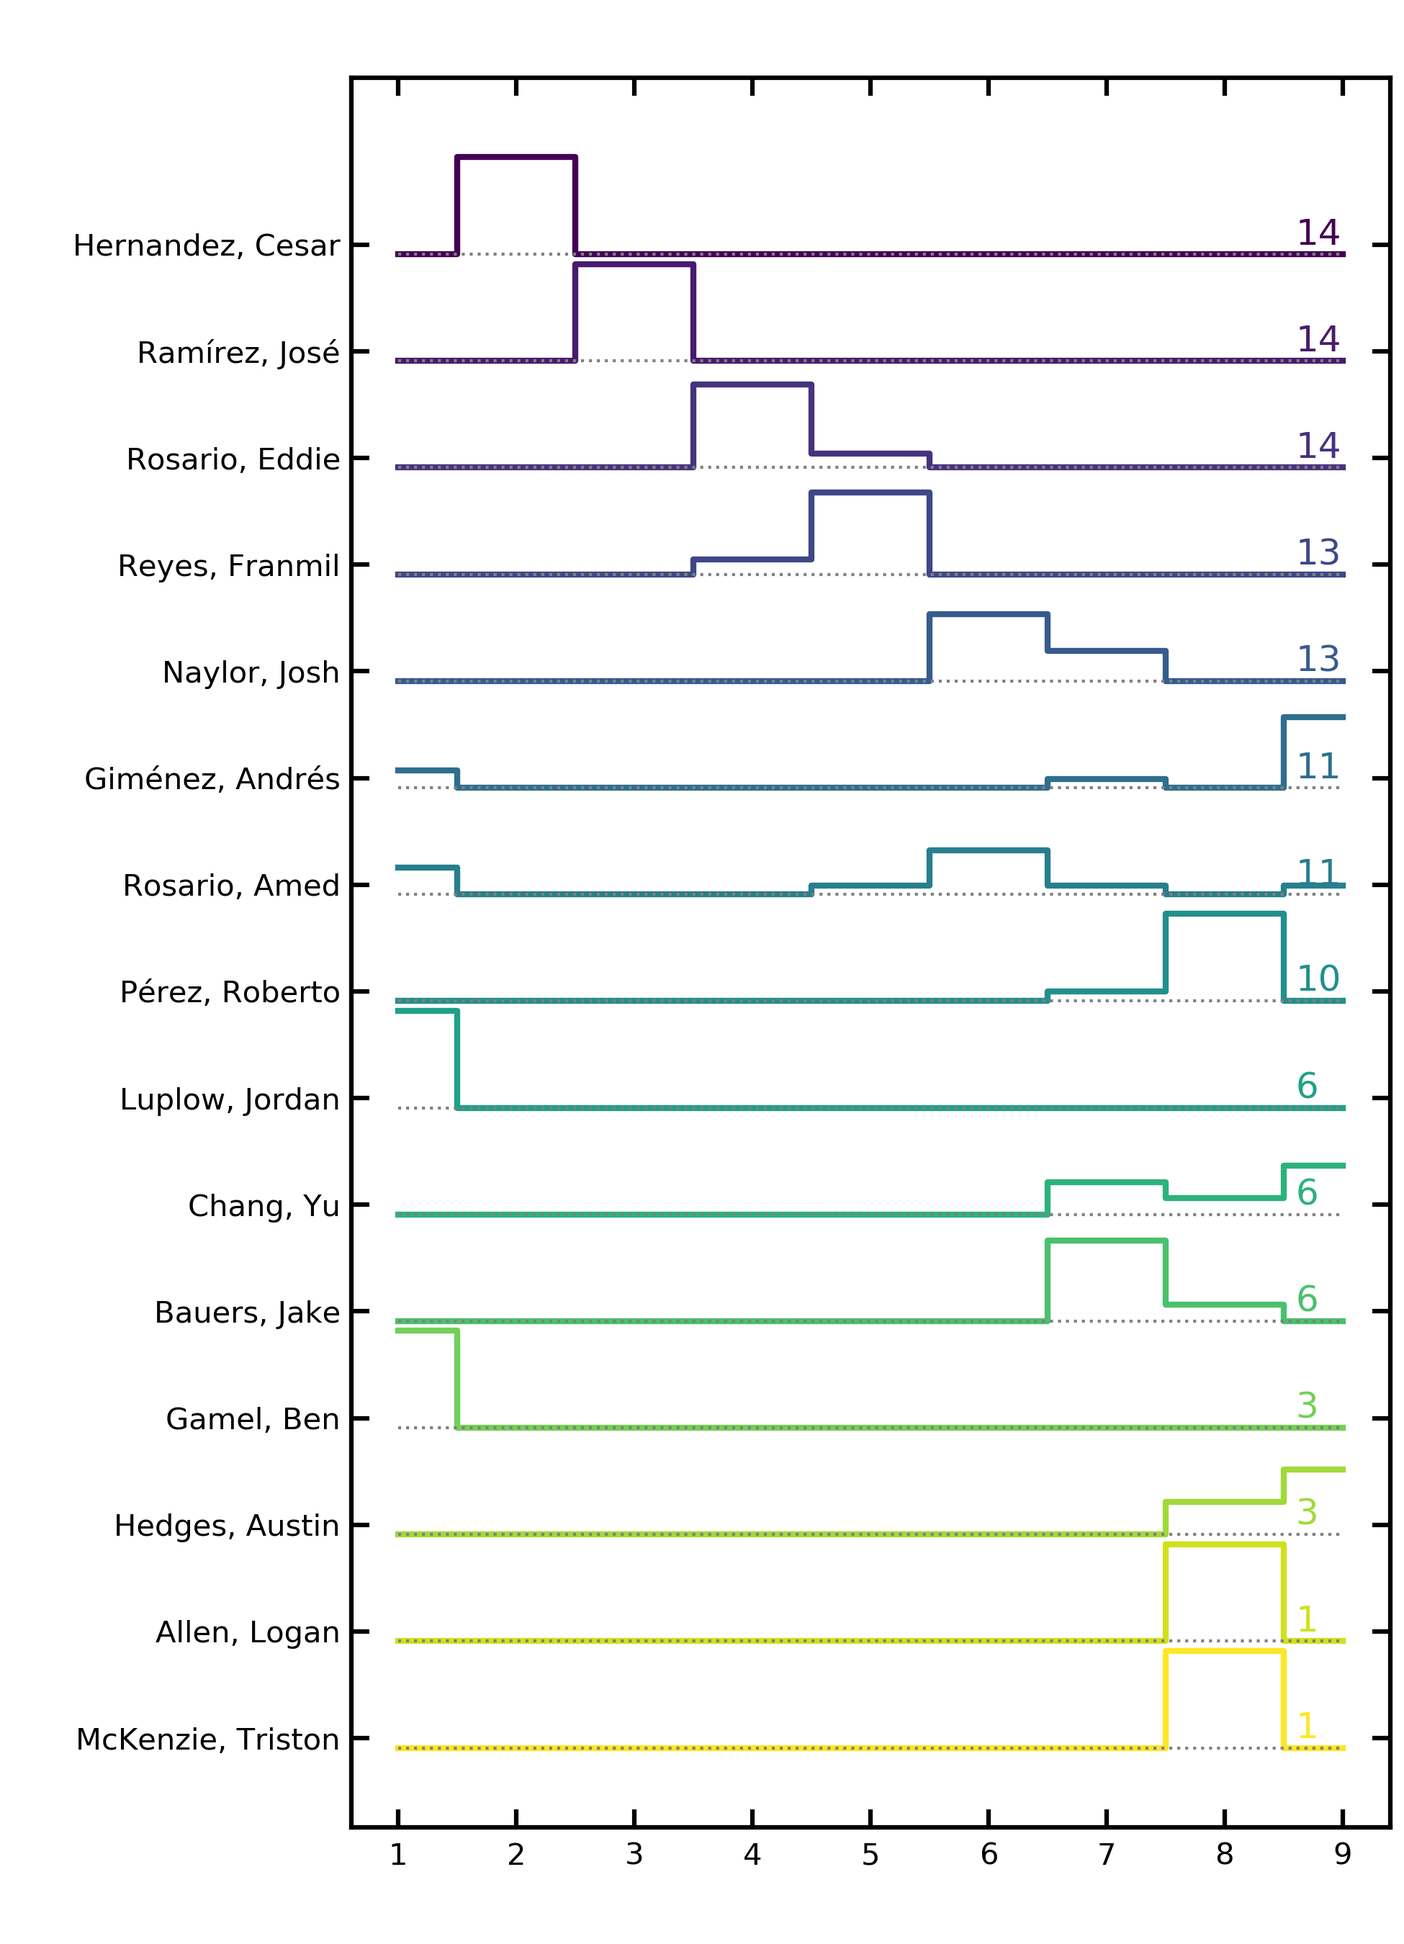
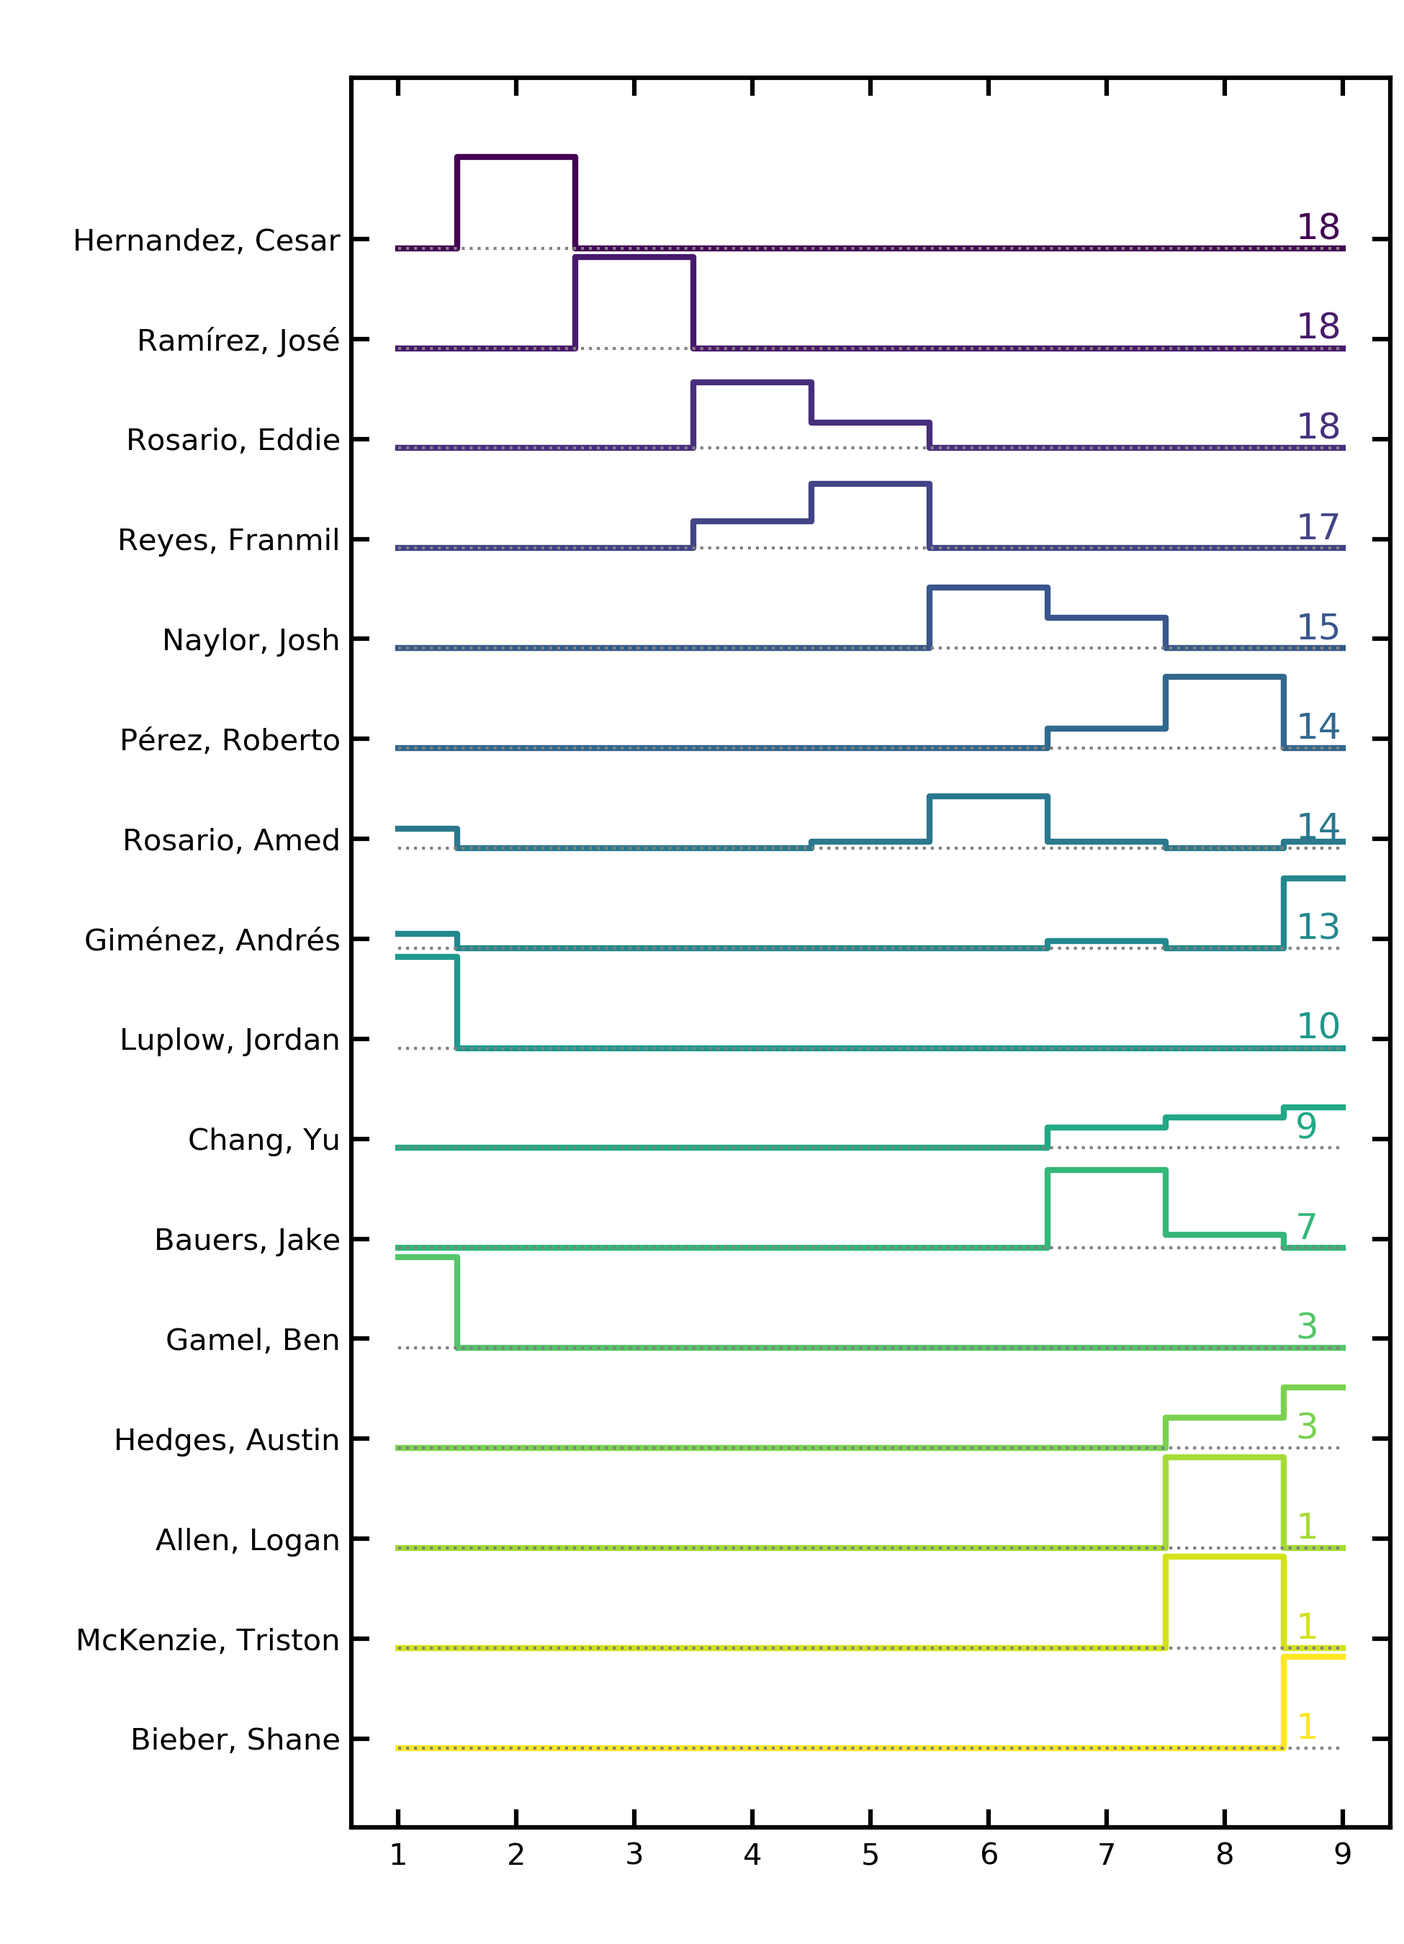
batting order update

diff --git a/Lineups/lineup2021.html b/Lineups/lineup2021.html
@@ -12,36 +12,36 @@
   <p>For each team, what is the "typical" 2021 lineup?</p>
 <table id="customers">
 <tr><th>Team</th><th>1st</th><th>2nd</th><th>3rd</th><th>4th</th><th>5th</th><th>6th</th><th>7th</th><th>8th</th><th>9th</th><th>Similarity</th><th>First Appeared</th></tr>
-<tr><td><a href="figures/2021LAAorder.png">LAA</a></td><td>Fletcher, David</td><td>Ohtani, Shohei</td><td>Trout, Mike</td><td>Rendon, Anthony</td><td>Walsh, Jared</td><td>Upton, Justin</td><td>Iglesias, José</td><td>Suzuki, Kurt</td><td>Fowler, Dexter</td><td>4.62</td><td>3</td></tr>
-<tr><td><a href="figures/2021HOUorder.png">HOU</a></td><td>Altuve, Jose</td><td>Brantley, Michael</td><td>Bregman, Alex</td><td>Alvarez, Yordan</td><td>Correa, Carlos</td><td>Gurriel, Yuli</td><td>Tucker, Kyle</td><td>Straw, Myles</td><td>Maldonado, Martín</td><td>3.54</td><td>10</td></tr>
-<tr><td><a href="figures/2021OAKorder.png">OAK</a></td><td>Canha, Mark</td><td>Laureano, Ramón</td><td>Lowrie, Jed</td><td>Olson, Matt</td><td>Chapman, Matt</td><td>Piscotty, Stephen</td><td>Brown, Seth</td><td>Andrus, Elvis</td><td>Garcia, Aramis</td><td>2.8</td><td>9</td></tr>
-<tr><td><a href="figures/2021TORorder.png">TOR</a></td><td>Semien, Marcus</td><td>Biggio, Cavan</td><td>Bichette, Bo</td><td>Hernández, Teoscar</td><td>Guerrero Jr., Vladimir</td><td>Gurriel Jr., Lourdes</td><td>Tellez, Rowdy</td><td>Grichuk, Randal</td><td>Jansen, Danny</td><td>3.67</td><td>1</td></tr>
-<tr><td><a href="figures/2021ATLorder.png">ATL</a></td><td>Acuña Jr., Ronald</td><td>Albies, Ozzie</td><td>Freeman, Freddie</td><td>Ozuna, Marcell</td><td>d'Arnaud, Travis</td><td>Swanson, Dansby</td><td>Riley, Austin</td><td>Pache, Cristian</td><td>Anderson, Ian</td><td>3.27</td><td>3</td></tr>
-<tr><td><a href="figures/2021MILorder.png">MIL</a></td><td>Wong, Kolten</td><td>Hiura, Keston</td><td>Yelich, Christian</td><td>García, Avisaíl</td><td>Bradley Jr., Jackie</td><td>Urías, Luis</td><td>Narváez, Omar</td><td>Arcia, Orlando</td><td>Anderson, Brett</td><td>2.43</td><td>4</td></tr>
-<tr><td><a href="figures/2021STLorder.png">STL</a></td><td>Edman, Tommy</td><td>Goldschmidt, Paul</td><td>Arenado, Nolan</td><td>DeJong, Paul</td><td>O'Neill, Tyler</td><td>Molina, Yadier</td><td>Carlson, Dylan</td><td>Williams, Justin</td><td>Wainwright, Adam</td><td>4.21</td><td>2</td></tr>
-<tr><td><a href="figures/2021CHCorder.png">CHC</a></td><td>Happ, Ian</td><td>Contreras, Willson</td><td>Rizzo, Anthony</td><td>Bryant, Kris</td><td>Pederson, Joc</td><td>Báez, Javier</td><td>Heyward, Jason</td><td>Bote, David</td><td>Davies, Zach</td><td>5.5</td><td>8</td></tr>
-<tr><td><a href="figures/2021ARIorder.png">ARI</a></td><td>Locastro, Tim</td><td>Calhoun, Kole</td><td>Walker, Christian</td><td>Peralta, David</td><td>Cabrera, Asdrúbal</td><td>Escobar, Eduardo</td><td>Ahmed, Nick</td><td>Vogt, Stephen</td><td>Smith, Riley</td><td>3.0</td><td>9</td></tr>
-<tr><td><a href="figures/2021LADorder.png">LAD</a></td><td>Betts, Mookie</td><td>Seager, Corey</td><td>Turner, Justin</td><td>Bellinger, Cody</td><td>Muncy, Max</td><td>Taylor, Chris</td><td>Lux, Gavin</td><td>Barnes, Austin</td><td>Kershaw, Clayton</td><td>2.8</td><td>1</td></tr>
-<tr><td><a href="figures/2021SForder.png">SF</a></td><td>Slater, Austin</td><td>Yastrzemski, Mike</td><td>Solano, Donovan</td><td>Longoria, Evan</td><td>Ruf, Darin</td><td>Flores, Wilmer</td><td>Posey, Buster</td><td>Crawford, Brandon</td><td>Dubón, Mauricio</td><td>2.32</td><td>2</td></tr>
-<tr><td><a href="figures/2021CLEorder.png">CLE</a></td><td>Luplow, Jordan</td><td>Hernandez, Cesar</td><td>Ramírez, José</td><td>Rosario, Eddie</td><td>Reyes, Franmil</td><td>Naylor, Josh</td><td>Chang, Yu</td><td>Pérez, Roberto</td><td>Giménez, Andrés</td><td>4.89</td><td>1</td></tr>
-<tr><td><a href="figures/2021SEAorder.png">SEA</a></td><td>Haniger, Mitch</td><td>France, Ty</td><td>Seager, Kyle</td><td>White, Evan</td><td>Moore, Dylan</td><td>Murphy, Tom</td><td>Fraley, Jake</td><td>Haggerty, Sam</td><td>Crawford, J.P.</td><td>4.21</td><td>4</td></tr>
-<tr><td><a href="figures/2021MIAorder.png">MIA</a></td><td>Dickerson, Corey</td><td>Marte, Starling</td><td>Aguilar, Jesús</td><td>Cooper, Garrett</td><td>Anderson, Brian</td><td>Chisholm Jr., Jazz</td><td>Rojas, Miguel</td><td>Wallach, Chad</td><td>Rogers, Trevor</td><td>3.93</td><td>8</td></tr>
-<tr><td><a href="figures/2021NYMorder.png">NYM</a></td><td>Nimmo, Brandon</td><td>Lindor, Francisco</td><td>Conforto, Michael</td><td>Alonso, Pete</td><td>Smith, Dominic</td><td>Villar, Jonathan</td><td>McCann, James</td><td>Guillorme, Luis</td><td>Peterson, David</td><td>3.9</td><td>3</td></tr>
-<tr><td><a href="figures/2021WSHorder.png">WSH</a></td><td>Robles, Victor</td><td>Turner, Trea</td><td>Soto, Juan</td><td>Zimmerman, Ryan</td><td>Castro, Starlin</td><td>Pérez, Hernán</td><td>Stevenson, Andrew</td><td>Lucroy, Jonathan</td><td>Scherzer, Max</td><td>2.54</td><td>1</td></tr>
-<tr><td><a href="figures/2021BALorder.png">BAL</a></td><td>Mullins, Cedric</td><td>Mancini, Trey</td><td>Santander, Anthony</td><td>Mountcastle, Ryan</td><td>Stewart, DJ</td><td>Franco, Maikel</td><td>Ruiz, Rio</td><td>Galvis, Freddy</td><td>Sisco, Chance</td><td>3.33</td><td>8</td></tr>
-<tr><td><a href="figures/2021SDorder.png">SD</a></td><td>Grisham, Trent</td><td>Profar, Jurickson</td><td>Machado, Manny</td><td>Hosmer, Eric</td><td>Myers, Wil</td><td>Cronenworth, Jake</td><td>Pham, Tommy</td><td>Caratini, Victor</td><td>Kim, Ha-Seong</td><td>2.53</td><td>10</td></tr>
-<tr><td><a href="figures/2021PHIorder.png">PHI</a></td><td>McCutchen, Andrew</td><td>Hoskins, Rhys</td><td>Harper, Bryce</td><td>Realmuto, J.T.</td><td>Bohm, Alec</td><td>Gregorius, Didi</td><td>Segura, Jean</td><td>Haseley, Adam</td><td>Nola, Aaron</td><td>4.64</td><td>1</td></tr>
-<tr><td><a href="figures/2021PITorder.png">PIT</a></td><td>Frazier, Adam</td><td>Evans, Phillip</td><td>Reynolds, Bryan</td><td>Moran, Colin</td><td>González, Erik</td><td>Polanco, Gregory</td><td>Stallings, Jacob</td><td>Fowler, Dustin</td><td>Brubaker, JT</td><td>4.07</td><td>4</td></tr>
-<tr><td><a href="figures/2021TEXorder.png">TEX</a></td><td>Kiner-Falefa, Isiah</td><td>Dahl, David</td><td>Gallo, Joey</td><td>Solak, Nick</td><td>Lowe, Nate</td><td>Trevino, Jose</td><td>Holt, Brock</td><td>White, Eli</td><td>Culberson, Charlie</td><td>3.4</td><td>4</td></tr>
-<tr><td><a href="figures/2021TBorder.png">TB</a></td><td>Tsutsugo, Yoshi</td><td>Meadows, Austin</td><td>Arozarena, Randy</td><td>Lowe, Brandon</td><td>Díaz, Yandy</td><td>Wendle, Joey</td><td>Adames, Willy</td><td>Phillips, Brett</td><td>Zunino, Mike</td><td>2.33</td><td>7</td></tr>
-<tr><td><a href="figures/2021BOSorder.png">BOS</a></td><td>Hernández, Enrique</td><td>Verdugo, Alex</td><td>Martinez, J.D.</td><td>Bogaerts, Xander</td><td>Devers, Rafael</td><td>Vázquez, Christian</td><td>Gonzalez, Marwin</td><td>Dalbec, Bobby</td><td>Cordero, Franchy</td><td>4.29</td><td>9</td></tr>
-<tr><td><a href="figures/2021CINorder.png">CIN</a></td><td>Winker, Jesse</td><td>Castellanos, Nick</td><td>Votto, Joey</td><td>Suárez, Eugenio</td><td>Moustakas, Mike</td><td>Senzel, Nick</td><td>India, Jonathan</td><td>Barnhart, Tucker</td><td>Castillo, Luis</td><td>5.31</td><td>1</td></tr>
-<tr><td><a href="figures/2021COLorder.png">COL</a></td><td>Hampson, Garrett</td><td>McMahon, Ryan</td><td>Story, Trevor</td><td>Blackmon, Charlie</td><td>Cron, C.J.</td><td>Tapia, Raimel</td><td>Fuentes, Josh</td><td>Nuñez, Dom</td><td>Gomber, Austin</td><td>3.6</td><td>8</td></tr>
-<tr><td><a href="figures/2021KCorder.png">KC</a></td><td>Merrifield, Whit</td><td>Benintendi, Andrew</td><td>Perez, Salvador</td><td>Santana, Carlos</td><td>Soler, Jorge</td><td>Taylor, Michael A.</td><td>Isbel, Kyle</td><td>Alberto, Hanser</td><td>Lopez, Nicky</td><td>5.31</td><td>8</td></tr>
-<tr><td><a href="figures/2021DETorder.png">DET</a></td><td>Grossman, Robbie</td><td>Candelario, Jeimer</td><td>Castro, Willi</td><td>Cabrera, Miguel</td><td>Schoop, Jonathan</td><td>Mazara, Nomar</td><td>Ramos, Wilson</td><td>Goodrum, Niko</td><td>Jones, JaCoby</td><td>2.2</td><td>2</td></tr>
-<tr><td><a href="figures/2021MINorder.png">MIN</a></td><td>Arraez, Luis</td><td>Polanco, Jorge</td><td>Cruz, Nelson</td><td>Kepler, Max</td><td>Astudillo, Willians</td><td>Sanó, Miguel</td><td>Cave, Jake</td><td>Jeffers, Ryan</td><td>Riddle, JT</td><td>2.07</td><td>13</td></tr>
-<tr><td><a href="figures/2021CWSorder.png">CWS</a></td><td>Anderson, Tim</td><td>Eaton, Adam</td><td>Abreu, José</td><td>Moncada, Yoán</td><td>Mercedes, Yermín</td><td>Grandal, Yasmani</td><td>Robert, Luis</td><td>Vaughn, Andrew</td><td>Madrigal, Nick</td><td>3.36</td><td>13</td></tr>
-<tr><td><a href="figures/2021NYYorder.png">NYY</a></td><td>LeMahieu, DJ</td><td>Judge, Aaron</td><td>Hicks, Aaron</td><td>Stanton, Giancarlo</td><td>Torres, Gleyber</td><td>Bruce, Jay</td><td>Sánchez, Gary</td><td>Urshela, Gio</td><td>Frazier, Clint</td><td>3.29</td><td>2</td></tr>
+<tr><td><a href="figures/2021LAAorder.png">LAA</a></td><td>Fletcher, David</td><td>Ohtani, Shohei</td><td>Trout, Mike</td><td>Rendon, Anthony</td><td>Walsh, Jared</td><td>Upton, Justin</td><td>Iglesias, José</td><td>Suzuki, Kurt</td><td>Fowler, Dexter</td><td>4.36</td><td>3</td></tr>
+<tr><td><a href="figures/2021HOUorder.png">HOU</a></td><td>Altuve, Jose</td><td>Brantley, Michael</td><td>Bregman, Alex</td><td>Alvarez, Yordan</td><td>Correa, Carlos</td><td>Gurriel, Yuli</td><td>Tucker, Kyle</td><td>Straw, Myles</td><td>Maldonado, Martín</td><td>3.42</td><td>10</td></tr>
+<tr><td><a href="figures/2021OAKorder.png">OAK</a></td><td>Canha, Mark</td><td>Laureano, Ramón</td><td>Lowrie, Jed</td><td>Olson, Matt</td><td>Chapman, Matt</td><td>Piscotty, Stephen</td><td>Brown, Seth</td><td>Andrus, Elvis</td><td>Garcia, Aramis</td><td>2.9</td><td>9</td></tr>
+<tr><td><a href="figures/2021TORorder.png">TOR</a></td><td>Semien, Marcus</td><td>Bichette, Bo</td><td>Guerrero Jr., Vladimir</td><td>Grichuk, Randal</td><td>Biggio, Cavan</td><td>Gurriel Jr., Lourdes</td><td>Tellez, Rowdy</td><td>Kirk, Alejandro</td><td>Palacios, Josh</td><td>3.11</td><td>10</td></tr>
+<tr><td><a href="figures/2021ATLorder.png">ATL</a></td><td>Acuña Jr., Ronald</td><td>Albies, Ozzie</td><td>Freeman, Freddie</td><td>Ozuna, Marcell</td><td>d'Arnaud, Travis</td><td>Swanson, Dansby</td><td>Riley, Austin</td><td>Pache, Cristian</td><td>Anderson, Ian</td><td>3.11</td><td>3</td></tr>
+<tr><td><a href="figures/2021MILorder.png">MIL</a></td><td>Wong, Kolten</td><td>Hiura, Keston</td><td>Yelich, Christian</td><td>Shaw, Travis</td><td>Bradley Jr., Jackie</td><td>Cain, Lorenzo</td><td>Narváez, Omar</td><td>Urías, Luis</td><td>Burnes, Corbin</td><td>2.16</td><td>7</td></tr>
+<tr><td><a href="figures/2021STLorder.png">STL</a></td><td>Edman, Tommy</td><td>Goldschmidt, Paul</td><td>Arenado, Nolan</td><td>DeJong, Paul</td><td>O'Neill, Tyler</td><td>Molina, Yadier</td><td>Carlson, Dylan</td><td>Williams, Justin</td><td>Wainwright, Adam</td><td>4.0</td><td>2</td></tr>
+<tr><td><a href="figures/2021CHCorder.png">CHC</a></td><td>Happ, Ian</td><td>Contreras, Willson</td><td>Rizzo, Anthony</td><td>Bryant, Kris</td><td>Pederson, Joc</td><td>Báez, Javier</td><td>Heyward, Jason</td><td>Bote, David</td><td>Hendricks, Kyle</td><td>5.16</td><td>1</td></tr>
+<tr><td><a href="figures/2021ARIorder.png">ARI</a></td><td>Locastro, Tim</td><td>Calhoun, Kole</td><td>Walker, Christian</td><td>Peralta, David</td><td>Cabrera, Asdrúbal</td><td>Escobar, Eduardo</td><td>Ahmed, Nick</td><td>Vogt, Stephen</td><td>Smith, Riley</td><td>2.79</td><td>9</td></tr>
+<tr><td><a href="figures/2021LADorder.png">LAD</a></td><td>Betts, Mookie</td><td>Seager, Corey</td><td>Turner, Justin</td><td>Smith, Will</td><td>Muncy, Max</td><td>Taylor, Chris</td><td>McKinstry, Zach</td><td>Raley, Luke</td><td>Buehler, Walker</td><td>3.08</td><td>14</td></tr>
+<tr><td><a href="figures/2021SForder.png">SF</a></td><td>La Stella, Tommy</td><td>Yastrzemski, Mike</td><td>Dickerson, Alex</td><td>Belt, Brandon</td><td>Longoria, Evan</td><td>Crawford, Brandon</td><td>Posey, Buster</td><td>Dubón, Mauricio</td><td>Webb, Logan</td><td>2.28</td><td>8</td></tr>
+<tr><td><a href="figures/2021CLEorder.png">CLE</a></td><td>Luplow, Jordan</td><td>Hernandez, Cesar</td><td>Ramírez, José</td><td>Rosario, Eddie</td><td>Reyes, Franmil</td><td>Naylor, Josh</td><td>Bauers, Jake</td><td>Pérez, Roberto</td><td>Giménez, Andrés</td><td>4.5</td><td>17</td></tr>
+<tr><td><a href="figures/2021SEAorder.png">SEA</a></td><td>Haniger, Mitch</td><td>France, Ty</td><td>Seager, Kyle</td><td>Marmolejos, José</td><td>Torrens, Luis</td><td>Moore, Dylan</td><td>Trammell, Taylor</td><td>Haggerty, Sam</td><td>Crawford, J.P.</td><td>4.21</td><td>8</td></tr>
+<tr><td><a href="figures/2021MIAorder.png">MIA</a></td><td>Dickerson, Corey</td><td>Marte, Starling</td><td>Aguilar, Jesús</td><td>Cooper, Garrett</td><td>Anderson, Brian</td><td>Chisholm Jr., Jazz</td><td>Berti, Jon</td><td>Wallach, Chad</td><td>López, Pablo</td><td>3.32</td><td>6</td></tr>
+<tr><td><a href="figures/2021NYMorder.png">NYM</a></td><td>Nimmo, Brandon</td><td>Lindor, Francisco</td><td>Smith, Dominic</td><td>Alonso, Pete</td><td>McNeil, Jeff</td><td>Conforto, Michael</td><td>Davis, J.D.</td><td>McCann, James</td><td>deGrom, Jacob</td><td>3.67</td><td>9</td></tr>
+<tr><td><a href="figures/2021WSHorder.png">WSH</a></td><td>Turner, Trea</td><td>Soto, Juan</td><td>Bell, Josh</td><td>Schwarber, Kyle</td><td>Harrison, Josh</td><td>Castro, Starlin</td><td>Gomes, Yan</td><td>Robles, Victor</td><td>Ross, Joe</td><td>2.12</td><td>14</td></tr>
+<tr><td><a href="figures/2021BALorder.png">BAL</a></td><td>Mullins, Cedric</td><td>Mancini, Trey</td><td>Santander, Anthony</td><td>Mountcastle, Ryan</td><td>Franco, Maikel</td><td>Severino, Pedro</td><td>Ruiz, Rio</td><td>Galvis, Freddy</td><td>Urías, Ramón</td><td>2.89</td><td>6</td></tr>
+<tr><td><a href="figures/2021SDorder.png">SD</a></td><td>Grisham, Trent</td><td>Profar, Jurickson</td><td>Machado, Manny</td><td>Hosmer, Eric</td><td>Myers, Wil</td><td>Cronenworth, Jake</td><td>Pham, Tommy</td><td>Caratini, Victor</td><td>Kim, Ha-Seong</td><td>2.48</td><td>10</td></tr>
+<tr><td><a href="figures/2021PHIorder.png">PHI</a></td><td>McCutchen, Andrew</td><td>Hoskins, Rhys</td><td>Harper, Bryce</td><td>Realmuto, J.T.</td><td>Bohm, Alec</td><td>Gregorius, Didi</td><td>Segura, Jean</td><td>Haseley, Adam</td><td>Nola, Aaron</td><td>4.37</td><td>1</td></tr>
+<tr><td><a href="figures/2021PITorder.png">PIT</a></td><td>Frazier, Adam</td><td>Evans, Phillip</td><td>Reynolds, Bryan</td><td>Moran, Colin</td><td>González, Erik</td><td>Polanco, Gregory</td><td>Stallings, Jacob</td><td>Fowler, Dustin</td><td>Brubaker, JT</td><td>4.18</td><td>4</td></tr>
+<tr><td><a href="figures/2021TEXorder.png">TEX</a></td><td>Kiner-Falefa, Isiah</td><td>Dahl, David</td><td>Gallo, Joey</td><td>García, Adolis</td><td>Lowe, Nate</td><td>Solak, Nick</td><td>Heim, Jonah</td><td>Culberson, Charlie</td><td>Taveras, Leody</td><td>3.35</td><td>12</td></tr>
+<tr><td><a href="figures/2021TBorder.png">TB</a></td><td>Tsutsugo, Yoshi</td><td>Meadows, Austin</td><td>Arozarena, Randy</td><td>Lowe, Brandon</td><td>Díaz, Yandy</td><td>Wendle, Joey</td><td>Adames, Willy</td><td>Phillips, Brett</td><td>Zunino, Mike</td><td>1.88</td><td>7</td></tr>
+<tr><td><a href="figures/2021BOSorder.png">BOS</a></td><td>Hernández, Enrique</td><td>Verdugo, Alex</td><td>Martinez, J.D.</td><td>Bogaerts, Xander</td><td>Devers, Rafael</td><td>Vázquez, Christian</td><td>Gonzalez, Marwin</td><td>Dalbec, Bobby</td><td>Cordero, Franchy</td><td>4.81</td><td>9</td></tr>
+<tr><td><a href="figures/2021CINorder.png">CIN</a></td><td>Winker, Jesse</td><td>Castellanos, Nick</td><td>Votto, Joey</td><td>Suárez, Eugenio</td><td>Moustakas, Mike</td><td>Senzel, Nick</td><td>India, Jonathan</td><td>Barnhart, Tucker</td><td>Castillo, Luis</td><td>4.71</td><td>1</td></tr>
+<tr><td><a href="figures/2021COLorder.png">COL</a></td><td>Hampson, Garrett</td><td>McMahon, Ryan</td><td>Story, Trevor</td><td>Blackmon, Charlie</td><td>Cron, C.J.</td><td>Tapia, Raimel</td><td>Fuentes, Josh</td><td>Nuñez, Dom</td><td>Gomber, Austin</td><td>3.84</td><td>8</td></tr>
+<tr><td><a href="figures/2021KCorder.png">KC</a></td><td>Merrifield, Whit</td><td>Benintendi, Andrew</td><td>Perez, Salvador</td><td>Santana, Carlos</td><td>Soler, Jorge</td><td>Taylor, Michael A.</td><td>Isbel, Kyle</td><td>Alberto, Hanser</td><td>Lopez, Nicky</td><td>4.61</td><td>8</td></tr>
+<tr><td><a href="figures/2021DETorder.png">DET</a></td><td>Grossman, Robbie</td><td>Castro, Willi</td><td>Candelario, Jeimer</td><td>Ramos, Wilson</td><td>Mazara, Nomar</td><td>Schoop, Jonathan</td><td>Núñez, Renato</td><td>Baddoo, Akil</td><td>Greiner, Grayson</td><td>2.25</td><td>10</td></tr>
+<tr><td><a href="figures/2021MINorder.png">MIN</a></td><td>Arraez, Luis</td><td>Polanco, Jorge</td><td>Cruz, Nelson</td><td>Buxton, Byron</td><td>Kepler, Max</td><td>Sanó, Miguel</td><td>Cave, Jake</td><td>Jeffers, Ryan</td><td>Simmons, Andrelton</td><td>2.03</td><td>9</td></tr>
+<tr><td><a href="figures/2021CWSorder.png">CWS</a></td><td>Anderson, Tim</td><td>Eaton, Adam</td><td>Abreu, José</td><td>Moncada, Yoán</td><td>Mercedes, Yermín</td><td>Grandal, Yasmani</td><td>Robert, Luis</td><td>Vaughn, Andrew</td><td>Madrigal, Nick</td><td>3.05</td><td>13</td></tr>
+<tr><td><a href="figures/2021NYYorder.png">NYY</a></td><td>LeMahieu, DJ</td><td>Judge, Aaron</td><td>Hicks, Aaron</td><td>Stanton, Giancarlo</td><td>Torres, Gleyber</td><td>Bruce, Jay</td><td>Sánchez, Gary</td><td>Urshela, Gio</td><td>Frazier, Clint</td><td>2.95</td><td>2</td></tr>
 </table>
 </body>
 </html>
